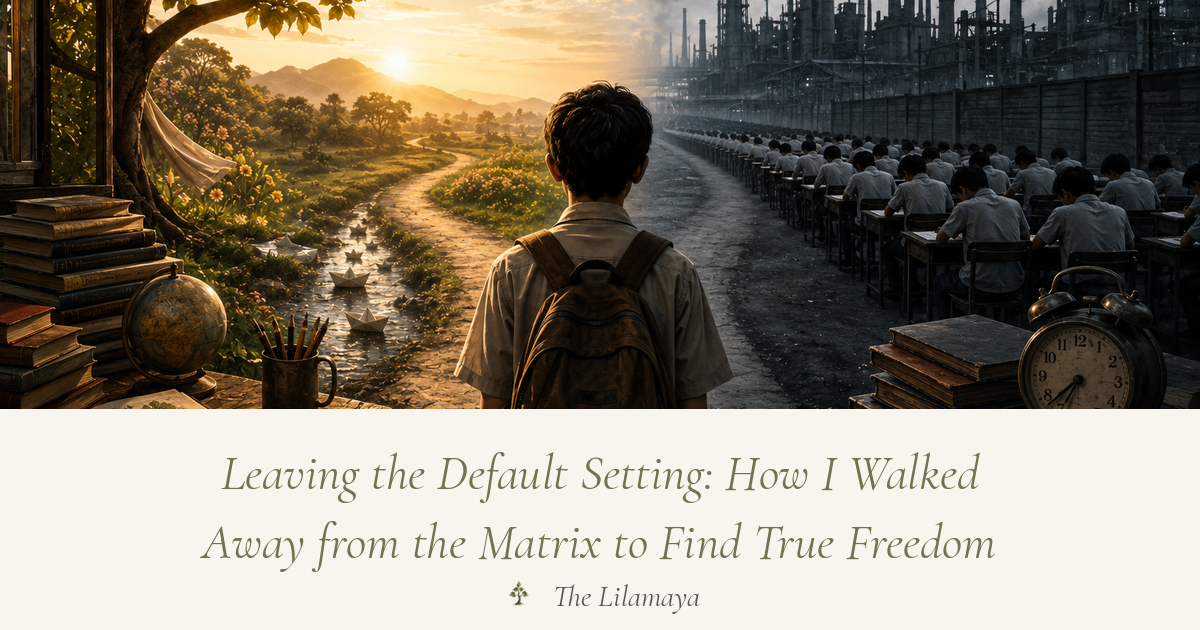
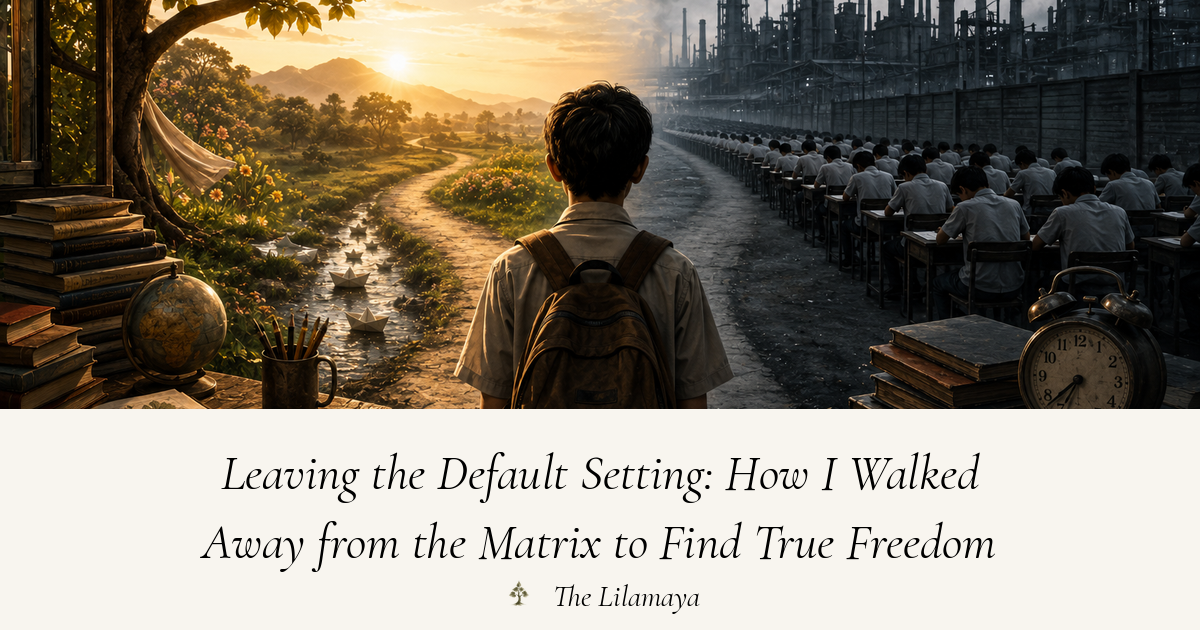
Title Of Graph Cards Changed to Black Colour

Changed region(s): [[0.185, 0.7238, 0.8325, 0.7841], [0.185, 0.8444, 0.8325, 0.9048], [0.4625, 0.9349, 0.5858, 0.9651]]

diff --git a/scripts/essay_renderer.py b/scripts/essay_renderer.py
@@ -183,7 +183,7 @@ def render(
             (x, y),
             line,
             font=font,
-            fill=OLIVE
+            fill=(0, 0, 0)
         )
 
         y += line_height + line_gap
@@ -246,7 +246,7 @@ def render(
             ),
             brand,
             font=brand_font,
-            fill=MUTED
+            fill=(0, 0, 0)
         )
 
     output_file.parent.mkdir(

diff --git a/scripts/generate_essay_cards.py b/scripts/generate_essay_cards.py
@@ -84,4 +84,4 @@ for bundle in sorted(ESSAYS_DIR.iterdir()):
         output_file=OUTPUT_DIR / f"{bundle.name}.png",
     )
 
-    print(f"Rendered {bundle.name}"
+    print(f"Rendered {bundle.name}")
